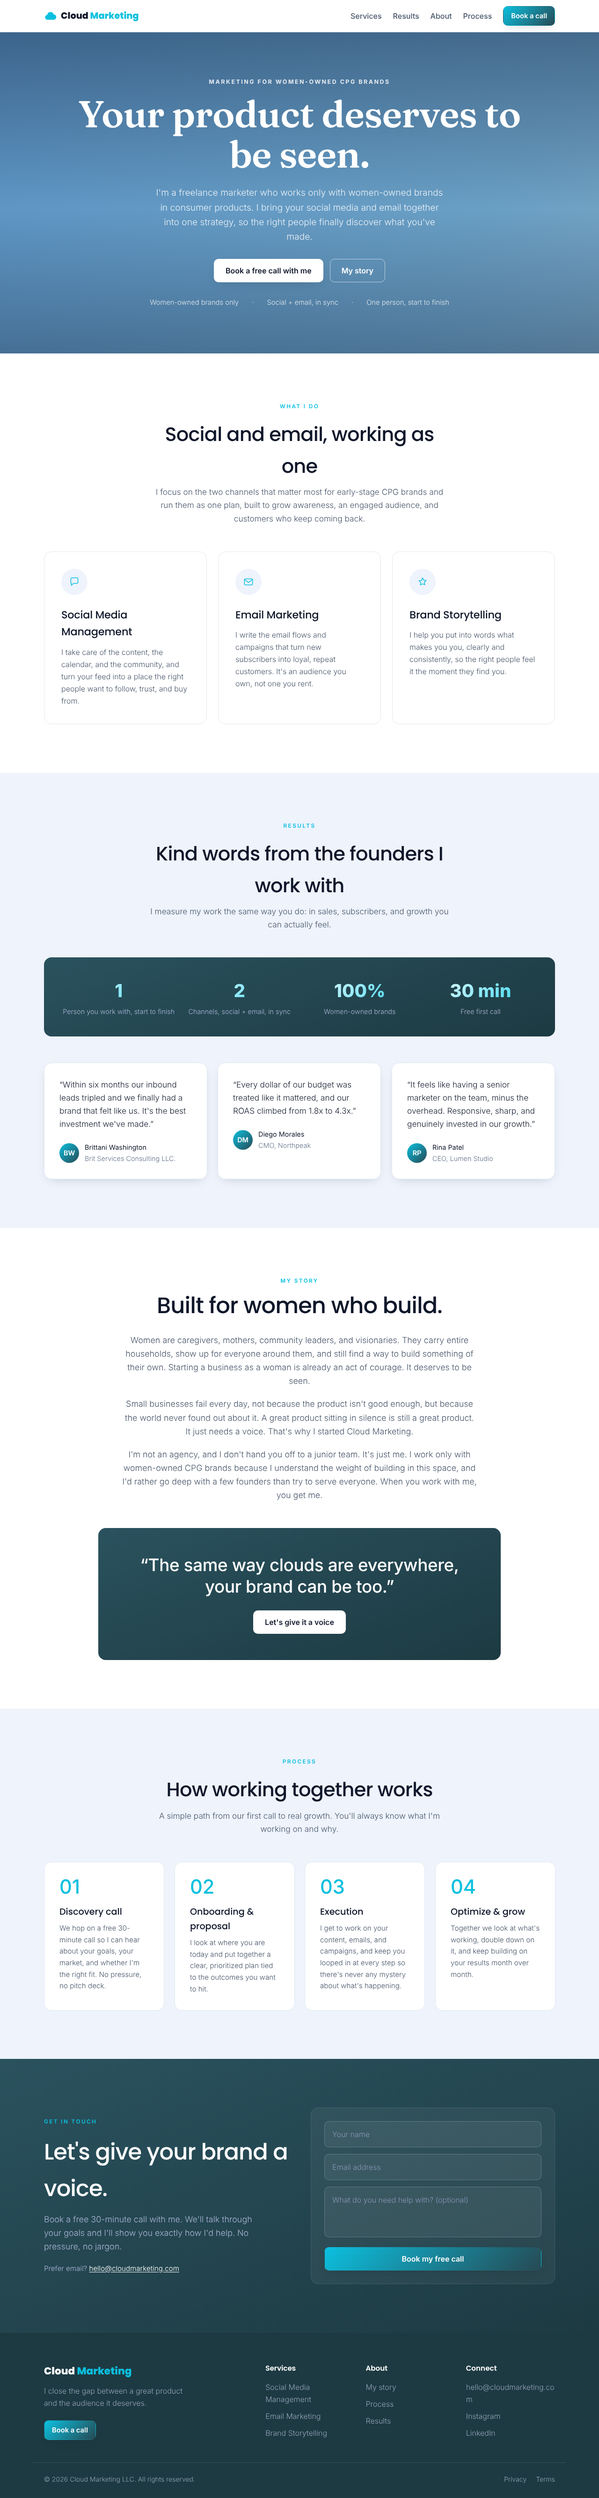
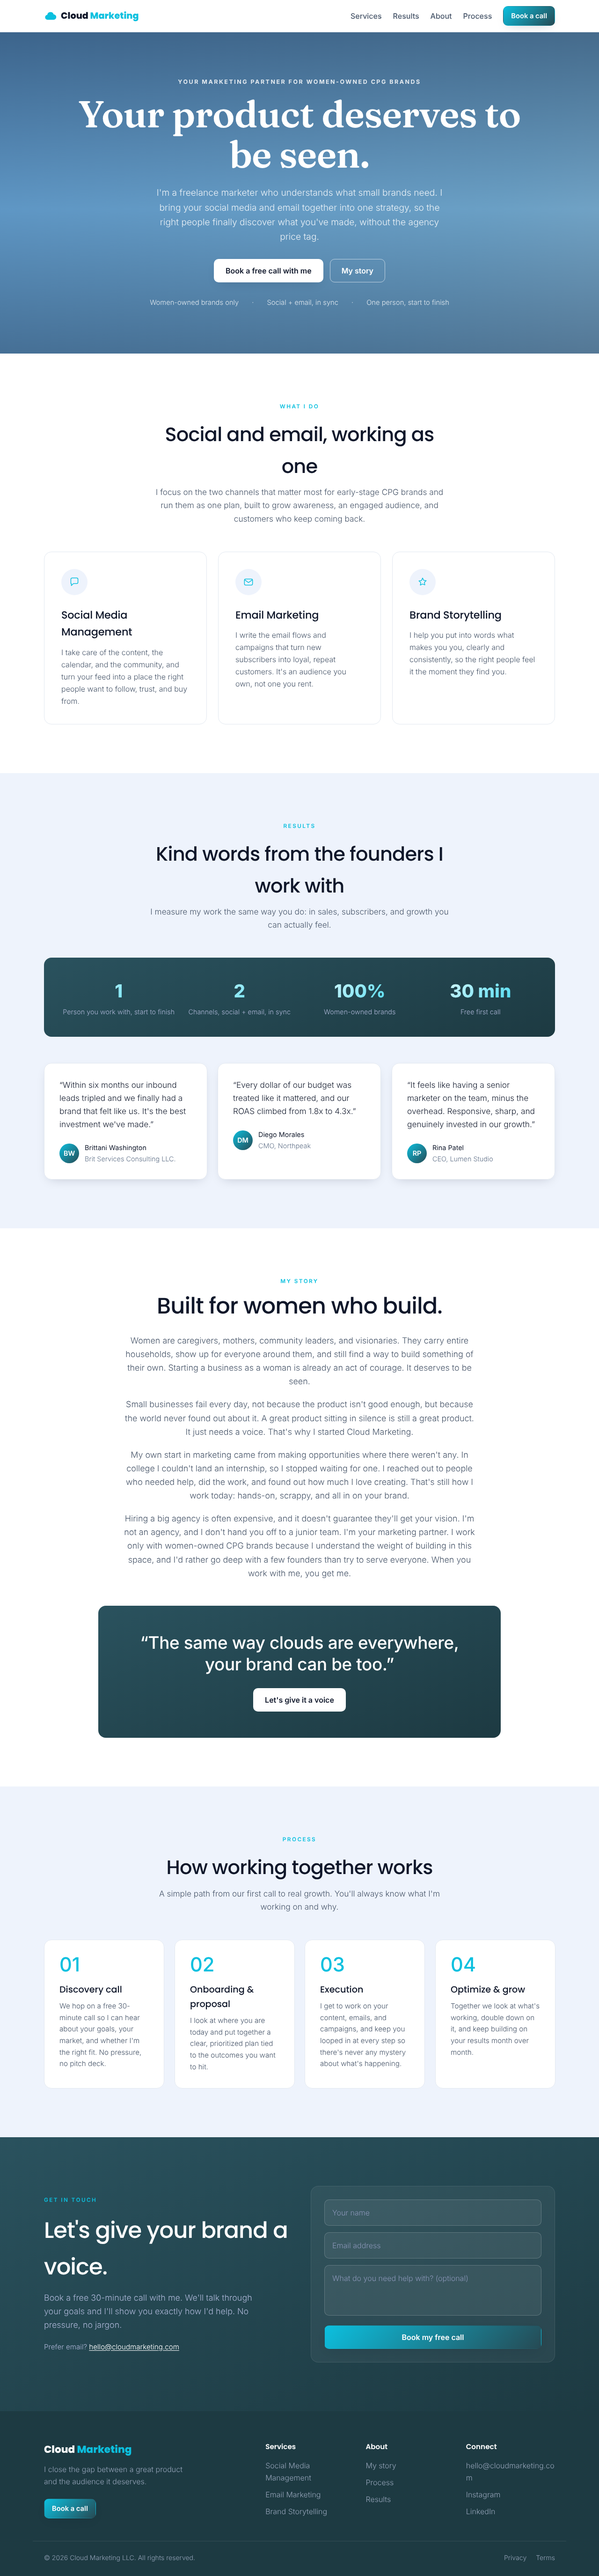
Add "your marketing partner" framing and founder story
Claude-Session: https://claude.ai/code/session_01BS6Hv8jWvS9UUisMcfmDfK

diff --git a/components/Hero.tsx b/components/Hero.tsx
@@ -24,7 +24,7 @@ export default function Hero() {
 
       <div className="container-x relative z-[2] flex flex-col items-center text-center">
         <p className="anim-up mb-4 text-[0.78rem] font-bold uppercase tracking-[0.2em] text-white/85">
-          Marketing for women-owned CPG brands
+          Your marketing partner for women-owned CPG brands
         </p>
         <h1
           className="anim-up font-display mx-auto mb-6 max-w-[18ch] text-[clamp(2.8rem,6.5vw,5rem)] font-semibold leading-[1.07] tracking-[-0.01em] text-white"
@@ -36,9 +36,10 @@ export default function Hero() {
           className="anim-up mx-auto max-w-[52ch] text-[1.2rem] leading-relaxed text-white/85"
           style={{ animationDelay: "160ms" }}
         >
-          I&apos;m a freelance marketer who works only with women-owned brands in
-          consumer products. I bring your social media and email together into
-          one strategy, so the right people finally discover what you&apos;ve made.
+          I&apos;m a freelance marketer who understands what small brands need.
+          I bring your social media and email together into one strategy, so
+          the right people finally discover what you&apos;ve made, without the
+          agency price tag.
         </p>
         <div
           className="anim-up my-8 flex flex-wrap justify-center gap-3.5"

diff --git a/components/Solutions.tsx b/components/Solutions.tsx
@@ -23,8 +23,18 @@ export default function Solutions() {
               voice. That&apos;s why I started Cloud Marketing.
             </p>
             <p>
-              I&apos;m not an agency, and I don&apos;t hand you off to a junior team.
-              It&apos;s just me. I work only with women-owned CPG brands because I
+              My own start in marketing came from making opportunities where
+              there weren&apos;t any. In college I couldn&apos;t land an
+              internship, so I stopped waiting for one. I reached out to people
+              who needed help, did the work, and found out how much I love
+              creating. That&apos;s still how I work today: hands-on, scrappy, and
+              all in on your brand.
+            </p>
+            <p>
+              Hiring a big agency is often expensive, and it doesn&apos;t
+              guarantee they&apos;ll get your vision. I&apos;m not an agency, and
+              I don&apos;t hand you off to a junior team. I&apos;m your marketing
+              partner. I work only with women-owned CPG brands because I
               understand the weight of building in this space, and I&apos;d rather
               go deep with a few founders than try to serve everyone. When you work
               with me, you get me.

diff --git a/app/layout.tsx b/app/layout.tsx
@@ -19,7 +19,7 @@ const fraunces = Fraunces({
 export const metadata: Metadata = {
   title: "Cloud Marketing LLC — Social & email marketing for women-owned CPG brands",
   description:
-    "I'm the freelance marketer behind Cloud Marketing, working only with women-owned CPG brands. I bring your social media and email together into one strategy that grows awareness, an engaged audience, and customers who come back.",
+    "I'm your marketing partner at Cloud Marketing, a freelancer working only with women-owned CPG brands. I bring your social media and email together into one strategy that grows awareness, an engaged audience, and customers who come back.",
 };
 
 export default function RootLayout({
